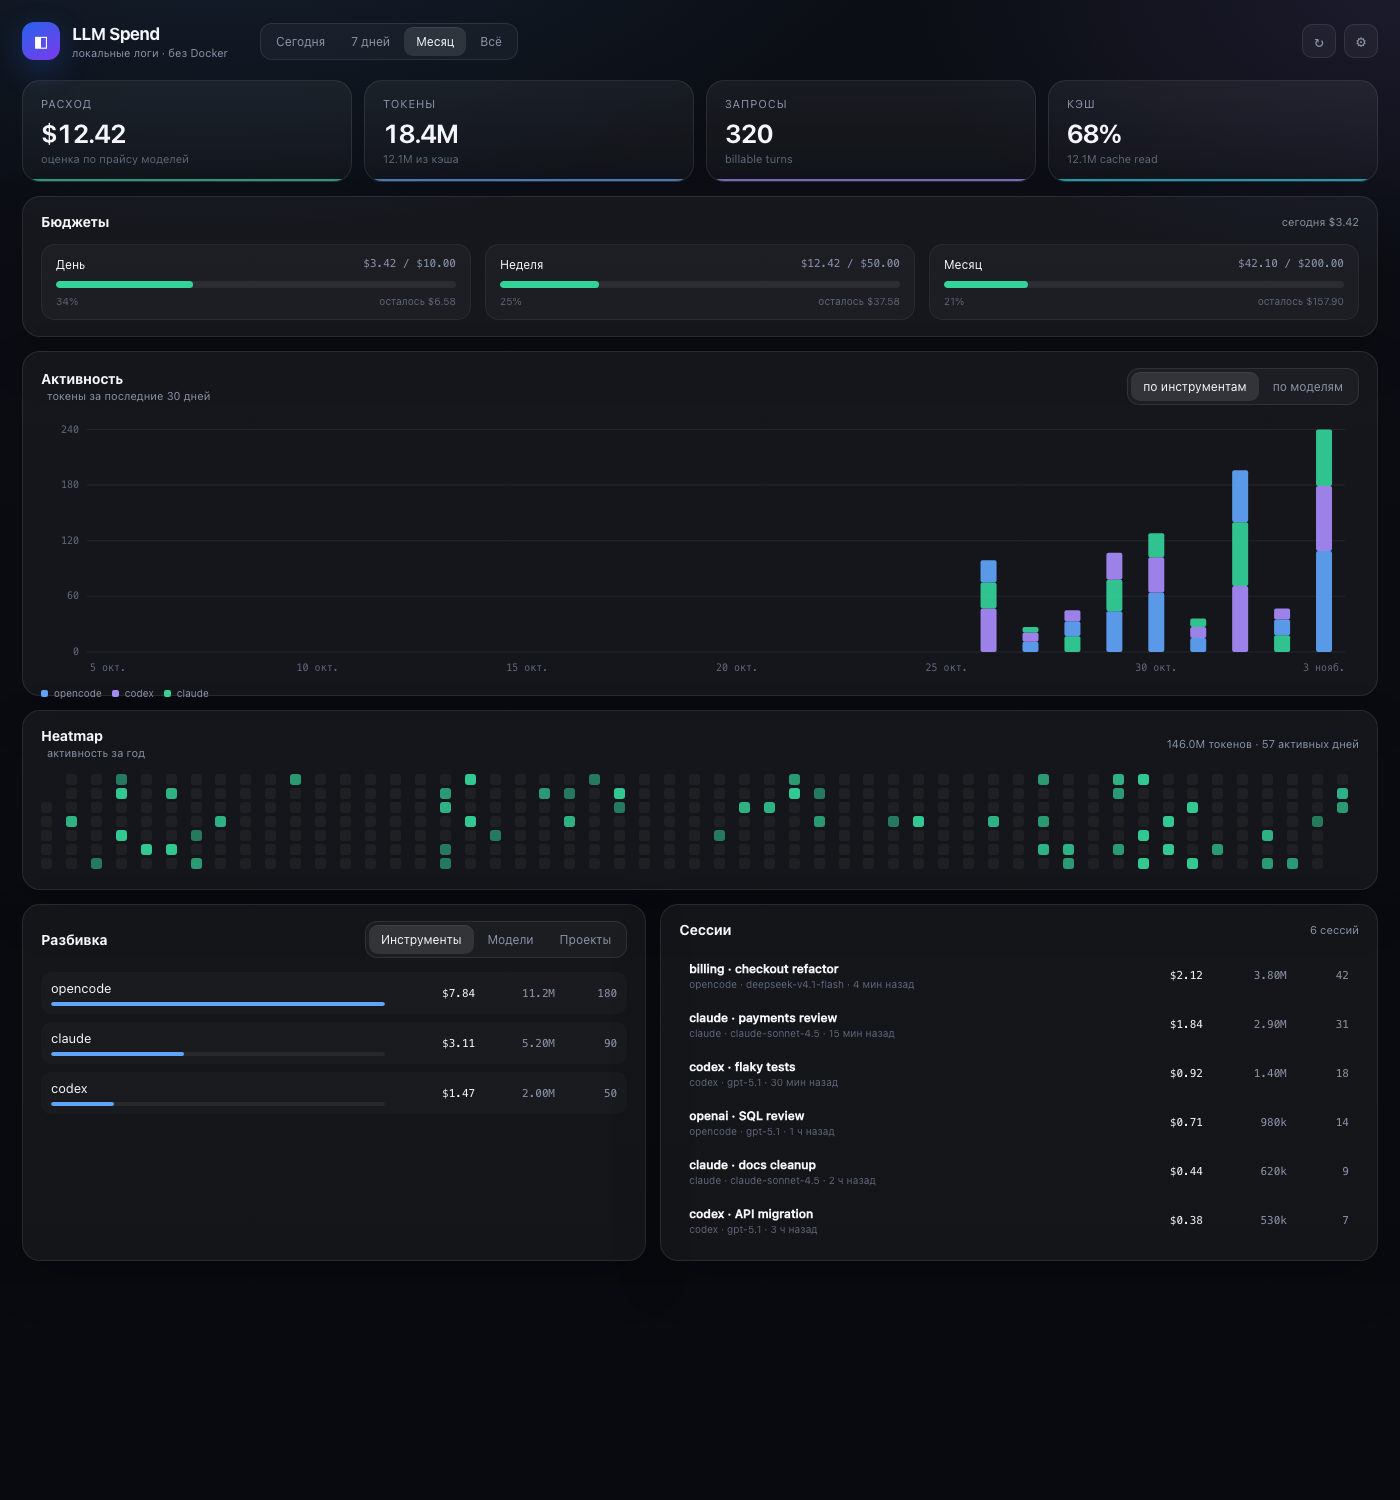
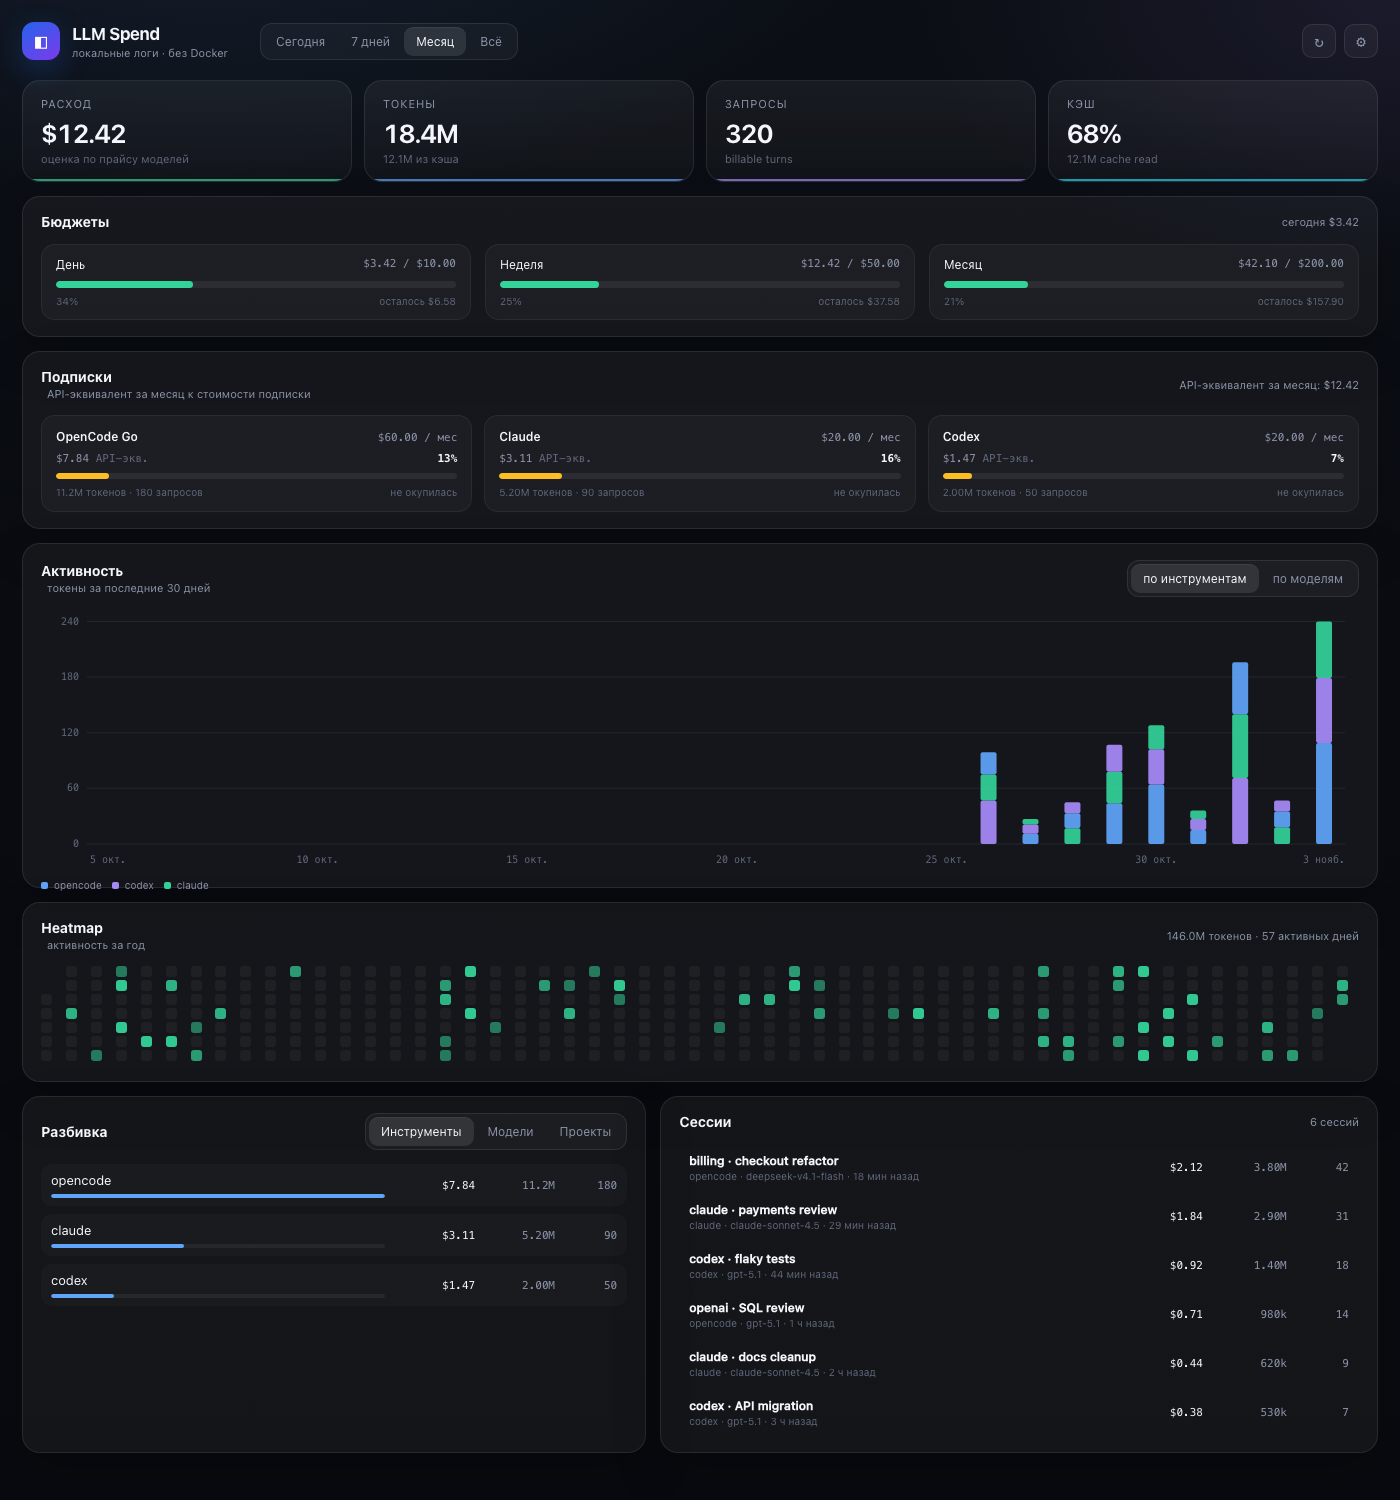
Add subscription price tracking and API-equivalent ratio

diff --git a/Resources/dashboard/app.js b/Resources/dashboard/app.js
@@ -140,6 +140,46 @@
     $("#budgetMeta").textContent = today > 0 ? `сегодня ${usd(today)}` : "";
   }
 
+  function subscriptionName(tool) {
+    const names = { opencode: "OpenCode Go", claude: "Claude", codex: "Codex" };
+    return names[tool] || tool;
+  }
+
+  function renderSubscriptions() {
+    const rows = Array.isArray(state.snapshot?.subscriptions) ? state.snapshot.subscriptions : [];
+    if (!rows.length) {
+      $("#subscriptionsPanel").classList.add("hidden");
+      return;
+    }
+    $("#subscriptionsPanel").classList.remove("hidden");
+    const total = rows.reduce((acc, row) => acc + (Number(row.monthSpend) || 0), 0);
+    $("#subscriptionsMeta").textContent = `API-эквивалент за месяц: ${usd(total)}`;
+    $("#subscriptions").innerHTML = rows.map((row) => {
+      const price = Number(row.price) || 0;
+      const spend = Number(row.monthSpend) || 0;
+      const ratio = price > 0 ? spend / price : 0;
+      const cls = ratio >= 1 ? "good" : ratio >= 0.5 ? "" : "warn";
+      const fill = price > 0 ? Math.min(100, ratio * 100) : 0;
+      return `
+        <div class="subscription">
+          <div class="subscription-top">
+            <span class="subscription-name">${esc(subscriptionName(row.tool))}</span>
+            <span class="subscription-price">${price > 0 ? `${usd(price)} / мес` : "цена не задана"}</span>
+          </div>
+          <div class="subscription-values">
+            <span>${usd(spend)} <span class="dim">API-экв.</span></span>
+            <strong>${price > 0 ? pct(ratio) : "—"}</strong>
+          </div>
+          <div class="subscription-bar"><div class="subscription-fill ${cls}" style="width:${fill.toFixed(1)}%"></div></div>
+          <div class="subscription-sub">
+            <span>${tokens(row.tokens)} токенов · ${Number(row.requests) || 0} запросов</span>
+            <span>${price > 0 ? (ratio >= 1 ? "окупилась" : "не окупилась") : "задайте в настройках"}</span>
+          </div>
+        </div>
+      `;
+    }).join("");
+  }
+
   function renderChart() {
     const container = $("#activityChart");
     const data = state.snapshot;
@@ -312,6 +352,7 @@
     $$("#periods button").forEach((button) => button.classList.toggle("active", button.dataset.period === state.period));
     renderKPIs();
     renderBudgets();
+    renderSubscriptions();
     renderChart();
     renderHeatmap();
     renderBreakdown();
@@ -325,6 +366,11 @@
     $("#weeklyBudget").value = Number(budgets.weekly || 0).toFixed(2);
     $("#monthlyBudget").value = Number(budgets.monthly || 0).toFixed(2);
     $("#scanInterval").value = Number(state.snapshot?.scanInterval || 60);
+    const subs = state.snapshot?.subscriptions || [];
+    const byTool = Object.fromEntries(subs.map((row) => [row.tool, row.price]));
+    $("#subscriptionOpencode").value = Number(byTool.opencode || 0);
+    $("#subscriptionClaude").value = Number(byTool.claude || 0);
+    $("#subscriptionCodex").value = Number(byTool.codex || 0);
     $("#settingsModal").classList.remove("hidden");
   }
 
@@ -339,6 +385,11 @@
         weekly: Number($("#weeklyBudget").value) || 0,
         monthly: Number($("#monthlyBudget").value) || 0,
         scanInterval: Number($("#scanInterval").value) || 60,
+        subscriptions: {
+          opencode: Number($("#subscriptionOpencode").value) || 0,
+          claude: Number($("#subscriptionClaude").value) || 0,
+          codex: Number($("#subscriptionCodex").value) || 0,
+        },
       },
     });
     closeSettings();

diff --git a/Resources/dashboard/index.html b/Resources/dashboard/index.html
@@ -39,6 +39,17 @@
         <div class="budgets" id="budgets"></div>
       </section>
 
+      <section class="panel" id="subscriptionsPanel">
+        <div class="panel-head">
+          <div>
+            <h2>Подписки</h2>
+            <span class="muted">API-эквивалент за месяц к стоимости подписки</span>
+          </div>
+          <span class="muted" id="subscriptionsMeta"></span>
+        </div>
+        <div id="subscriptions" class="subscriptions"></div>
+      </section>
+
       <section class="panel chart-panel">
         <div class="panel-head">
           <div>
@@ -106,6 +117,9 @@
         <label>Бюджет на неделю, $<input id="weeklyBudget" type="number" min="0" step="0.01"></label>
         <label>Бюджет на месяц, $<input id="monthlyBudget" type="number" min="0" step="0.01"></label>
         <label>Сканировать каждые, сек<input id="scanInterval" type="number" min="10" step="5"></label>
+        <label>OpenCode Go, $/мес<input id="subscriptionOpencode" type="number" min="0" step="1"></label>
+        <label>Claude, $/мес<input id="subscriptionClaude" type="number" min="0" step="1"></label>
+        <label>Codex, $/мес<input id="subscriptionCodex" type="number" min="0" step="1"></label>
       </div>
       <p class="modal-note">Пути к логам и цены можно изменить в меню приложения и в <code>pricing.json</code>. Тексты диалогов не сохраняются.</p>
       <div class="modal-actions">

diff --git a/Resources/dashboard/styles.css b/Resources/dashboard/styles.css
@@ -293,3 +293,40 @@ button.secondary:hover { color: var(--text); }
   .budgets { grid-template-columns: 1fr; }
   .topbar { flex-wrap: wrap; }
 }
+
+.subscriptions {
+  display: grid;
+  grid-template-columns: repeat(auto-fit, minmax(240px, 1fr));
+  gap: 12px;
+}
+.subscription {
+  padding: 13px 14px;
+  border-radius: 14px;
+  border: 1px solid rgba(255,255,255,0.06);
+  background: rgba(255,255,255,0.03);
+}
+.subscription-top {
+  display: flex;
+  align-items: baseline;
+  justify-content: space-between;
+  gap: 10px;
+  margin-bottom: 8px;
+}
+.subscription-name { font-size: 12px; font-weight: 600; }
+.subscription-price { font-family: var(--mono); font-size: 11px; color: var(--muted); }
+.subscription-values {
+  display: flex;
+  justify-content: space-between;
+  gap: 10px;
+  font-family: var(--mono);
+  font-size: 11px;
+  color: var(--muted);
+  margin-bottom: 8px;
+}
+.subscription-values strong { color: var(--text); font-weight: 600; }
+.subscription-bar { height: 6px; border-radius: 999px; background: rgba(255,255,255,0.07); overflow: hidden; }
+.subscription-fill { height: 100%; border-radius: 999px; background: var(--blue); }
+.subscription-fill.good { background: var(--green); }
+.subscription-fill.warn { background: var(--orange); }
+.subscription-fill.bad { background: var(--red); }
+.subscription-sub { margin-top: 7px; color: var(--dim); font-size: 10px; display: flex; justify-content: space-between; gap: 8px; }

diff --git a/Sources/LSBSettingsWindow.m b/Sources/LSBSettingsWindow.m
@@ -11,13 +11,16 @@
 @property (nonatomic, strong) NSTextField *codexField;
 @property (nonatomic, strong) NSTextField *opencodeField;
 @property (nonatomic, strong) NSTextField *pricingField;
+@property (nonatomic, strong) NSTextField *opencodeSubscriptionField;
+@property (nonatomic, strong) NSTextField *claudeSubscriptionField;
+@property (nonatomic, strong) NSTextField *codexSubscriptionField;
 @property (nonatomic, strong) NSTextField *statusLabel;
 @end
 
 @implementation LSBSettingsWindowController
 
 - (instancetype)init {
-    NSWindow *window = [[NSWindow alloc] initWithContentRect:NSMakeRect(0, 0, 680, 560)
+    NSWindow *window = [[NSWindow alloc] initWithContentRect:NSMakeRect(0, 0, 680, 660)
                                                    styleMask:(NSWindowStyleMaskTitled | NSWindowStyleMaskClosable)
                                                      backing:NSBackingStoreBuffered
                                                        defer:NO];
@@ -67,6 +70,9 @@
     self.codexField = [NSTextField textFieldWithString:LSBSettings.codexSessionsPath];
     self.opencodeField = [NSTextField textFieldWithString:LSBSettings.opencodeDBPath];
     self.pricingField = [NSTextField textFieldWithString:LSBSettings.pricingOverridePath];
+    self.opencodeSubscriptionField = [NSTextField textFieldWithString:[NSString stringWithFormat:@"%.2f", [LSBSettings subscriptionPriceForTool:@"opencode"]]];
+    self.claudeSubscriptionField = [NSTextField textFieldWithString:[NSString stringWithFormat:@"%.2f", [LSBSettings subscriptionPriceForTool:@"claude"]]];
+    self.codexSubscriptionField = [NSTextField textFieldWithString:[NSString stringWithFormat:@"%.2f", [LSBSettings subscriptionPriceForTool:@"codex"]]];
 
     NSGridView *grid = [NSGridView gridViewWithViews:@[
         @[[self label:@"Бюджет на день, $"], self.dailyField],
@@ -78,6 +84,9 @@
         @[[self label:@"Codex"], self.codexField],
         @[[self label:@"OpenCode DB"], self.opencodeField],
         @[[self label:@"Свои цены"], self.pricingField],
+        @[[self label:@"OpenCode Go, $/мес"], self.opencodeSubscriptionField],
+        @[[self label:@"Claude, $/мес"], self.claudeSubscriptionField],
+        @[[self label:@"Codex, $/мес"], self.codexSubscriptionField],
     ]];
     grid.rowSpacing = 9;
     grid.columnSpacing = 14;
@@ -151,6 +160,9 @@
     self.codexField.stringValue = LSBSettings.codexSessionsPath;
     self.opencodeField.stringValue = LSBSettings.opencodeDBPath;
     self.pricingField.stringValue = LSBSettings.pricingOverridePath;
+    self.opencodeSubscriptionField.stringValue = [NSString stringWithFormat:@"%.2f", [LSBSettings subscriptionPriceForTool:@"opencode"]];
+    self.claudeSubscriptionField.stringValue = [NSString stringWithFormat:@"%.2f", [LSBSettings subscriptionPriceForTool:@"claude"]];
+    self.codexSubscriptionField.stringValue = [NSString stringWithFormat:@"%.2f", [LSBSettings subscriptionPriceForTool:@"codex"]];
     self.statusLabel.stringValue = @"";
 
     NSTimeInterval interval = LSBSettings.scanInterval;
@@ -209,6 +221,9 @@
     if (codex.length > 0) [LSBSettings setCodexSessionsPath:codex];
     if (opencode.length > 0) [LSBSettings setOpencodeDBPath:opencode];
     if (pricing.length > 0) [LSBSettings setPricingOverridePath:pricing];
+    [LSBSettings setSubscriptionPrice:MAX(0, self.opencodeSubscriptionField.doubleValue) forTool:@"opencode"];
+    [LSBSettings setSubscriptionPrice:MAX(0, self.claudeSubscriptionField.doubleValue) forTool:@"claude"];
+    [LSBSettings setSubscriptionPrice:MAX(0, self.codexSubscriptionField.doubleValue) forTool:@"codex"];
 }
 
 - (void)save:(id)sender {

diff --git a/Sources/LSBSettings.m b/Sources/LSBSettings.m
@@ -13,6 +13,7 @@ static NSString *const LSBDefaultsClaudePath = @"claudeProjectsPath";
 static NSString *const LSBDefaultsCodexPath = @"codexSessionsPath";
 static NSString *const LSBDefaultsOpenCodePath = @"opencodeDBPath";
 static NSString *const LSBDefaultsPricingPath = @"pricingOverridePath";
+static NSString *const LSBDefaultsSubscriptionPrefix = @"subscription.";
 
 @implementation LSBSettings
 
@@ -27,6 +28,9 @@ static NSString *const LSBDefaultsPricingPath = @"pricingOverridePath";
         LSBDefaultsCodexPath: [@"~/.codex/sessions" stringByExpandingTildeInPath],
         LSBDefaultsOpenCodePath: [@"~/.local/share/opencode/opencode.db" stringByExpandingTildeInPath],
         LSBDefaultsPricingPath: [@"~/Library/Application Support/LLM Spend Bar/pricing.json" stringByExpandingTildeInPath],
+        @"subscription.opencode": @0.0,
+        @"subscription.claude": @0.0,
+        @"subscription.codex": @0.0,
     };
     [[NSUserDefaults standardUserDefaults] registerDefaults:defaults];
 }
@@ -116,6 +120,18 @@ static NSString *const LSBDefaultsPricingPath = @"pricingOverridePath";
 
 + (void)setPricingOverridePath:(NSString *)value {
     [[NSUserDefaults standardUserDefaults] setObject:value forKey:LSBDefaultsPricingPath];
+}
+
++ (double)subscriptionPriceForTool:(NSString *)tool {
+    if (tool.length == 0) return 0;
+    NSString *key = [LSBDefaultsSubscriptionPrefix stringByAppendingString:tool.lowercaseString];
+    return [[NSUserDefaults standardUserDefaults] doubleForKey:key];
+}
+
++ (void)setSubscriptionPrice:(double)price forTool:(NSString *)tool {
+    if (tool.length == 0) return;
+    NSString *key = [LSBDefaultsSubscriptionPrefix stringByAppendingString:tool.lowercaseString];
+    [[NSUserDefaults standardUserDefaults] setDouble:MAX(0, price) forKey:key];
 }
 
 @end

diff --git a/Sources/LSBStore.m b/Sources/LSBStore.m
@@ -482,6 +482,20 @@ static void LSBAppendJSONLine(NSFileHandle *handle, NSDictionary *dictionary) {
     NSArray<LSBGroupSpend *> *models = [self groupsBy:@"model" start:start end:now limit:30];
     NSArray<LSBGroupSpend *> *projects = [self groupsBy:@"project" start:start end:now limit:30];
     NSArray<LSBSessionSpend *> *sessions = [self sessionsFrom:start to:now limit:100];
+    NSArray<LSBGroupSpend *> *monthTools = [self groupsBy:@"tool" start:monthStart end:now limit:50];
+
+    NSMutableArray *subscriptions = [NSMutableArray array];
+    for (LSBGroupSpend *group in monthTools) {
+        double price = [LSBSettings subscriptionPriceForTool:group.name];
+        [subscriptions addObject:@{
+            @"tool": group.name,
+            @"price": @(price),
+            @"monthSpend": @(group.spend),
+            @"ratio": price > 0 ? @(group.spend / price) : @0,
+            @"tokens": @(group.tokens),
+            @"requests": @(group.requests),
+        }];
+    }
 
     NSMutableArray *toolsJSON = [NSMutableArray array];
     for (LSBGroupSpend *group in tools) {
@@ -554,6 +568,7 @@ static void LSBAppendJSONLine(NSFileHandle *handle, NSDictionary *dictionary) {
         @"heatmap": [self heatmapFrom:heatmapStart to:now],
         @"tools": toolsJSON,
         @"models": modelsJSON,
+        @"subscriptions": subscriptions,
         @"projects": projectsJSON,
         @"sessions": sessionsJSON,
         @"unpriced": unpriced,

diff --git a/Sources/LSBDashboardWindowController.m b/Sources/LSBDashboardWindowController.m
@@ -128,6 +128,15 @@
             if (settings[@"weekly"]) [LSBSettings setWeeklyBudget:[settings[@"weekly"] doubleValue]];
             if (settings[@"monthly"]) [LSBSettings setMonthlyBudget:[settings[@"monthly"] doubleValue]];
             if (settings[@"scanInterval"]) [LSBSettings setScanInterval:[settings[@"scanInterval"] doubleValue]];
+            NSDictionary *subscriptions = settings[@"subscriptions"];
+            if ([subscriptions isKindOfClass:[NSDictionary class]]) {
+                for (NSString *tool in @[@"opencode", @"claude", @"codex"]) {
+                    NSNumber *value = subscriptions[tool];
+                    if ([value isKindOfClass:[NSNumber class]]) {
+                        [LSBSettings setSubscriptionPrice:value.doubleValue forTool:tool];
+                    }
+                }
+            }
             [self.delegate dashboardDidRequestScan];
             if (self.store) {
                 self.pendingSnapshot = [self.store dashboardSnapshotForPeriod:self.period now:[NSDate date]];

diff --git a/Sources/LSBSettings.h b/Sources/LSBSettings.h
@@ -30,6 +30,9 @@ extern NSString *const LSBDisplayModeTokens;
 + (void)setOpencodeDBPath:(NSString *)value;
 + (NSString *)pricingOverridePath;
 + (void)setPricingOverridePath:(NSString *)value;
+
++ (double)subscriptionPriceForTool:(NSString *)tool;
++ (void)setSubscriptionPrice:(double)price forTool:(NSString *)tool;
 @end
 
 NS_ASSUME_NONNULL_END

diff --git a/README.md b/README.md
@@ -94,6 +94,27 @@ OPENCODE_DB=... CLAUDE_PROJECTS_DIR=... CODEX_SESSIONS_DIR=... ./build.sh --scan
 
 > Для подписок (OpenCode Go, Claude Max, Codex, Cursor) стоимость — это **оценка API-эквивалента**, а не реальный счёт. Реальный расход подписки фиксированный; приложение показывает, сколько токенов вы сожгли и сколько это стоило бы по API.
 
+### Подписки и «окупаемость»
+
+В настройках можно указать месячную стоимость подписки для OpenCode Go, Claude и Codex. Дашборд считает:
+
+```
+API-эквивалент за месяц / стоимость подписки = доля окупаемости
+```
+
+Например, для OpenCode Go `$3.48 / $60.00 = 6%`. Это не значит, что подписка «плохая»: она даёт фиксированный доступ к моделям, а не оплату по токенам. Но видно, сколько API-денег вы бы потратили без неё.
+
+### Откуда цены для OpenCode Go
+
+OpenCode в режиме подписки пишет `cost = 0` в `session_message`. Приложение видит `cost = 0` и считает оценку по прайсу LiteLLM:
+
+| Модель | input / 1M | output / 1M | cache read / 1M |
+|---|---:|---:|---:|
+| `opencode_go/deepseek-v4.1-flash` | $0.30 | $1.20 | $0.006 |
+| `opencode_go/deepseek-v4-pro` | $1.32 | $3.96 | $0.044 |
+
+Это **не тариф OpenCode Go**, а API-эквивалент по публичному прайсу модели. Если OpenCode когда-нибудь запишет реальный `cost > 0`, приложение возьмёт его и пометит событие как `actual`. Если модели нет в прайсе — стоимость `$0` и она попадёт в блок «Модели без цены».
+
 ## Менюбар
 
 - **Три полоски** — расход к бюджету за день / неделю / месяц.
